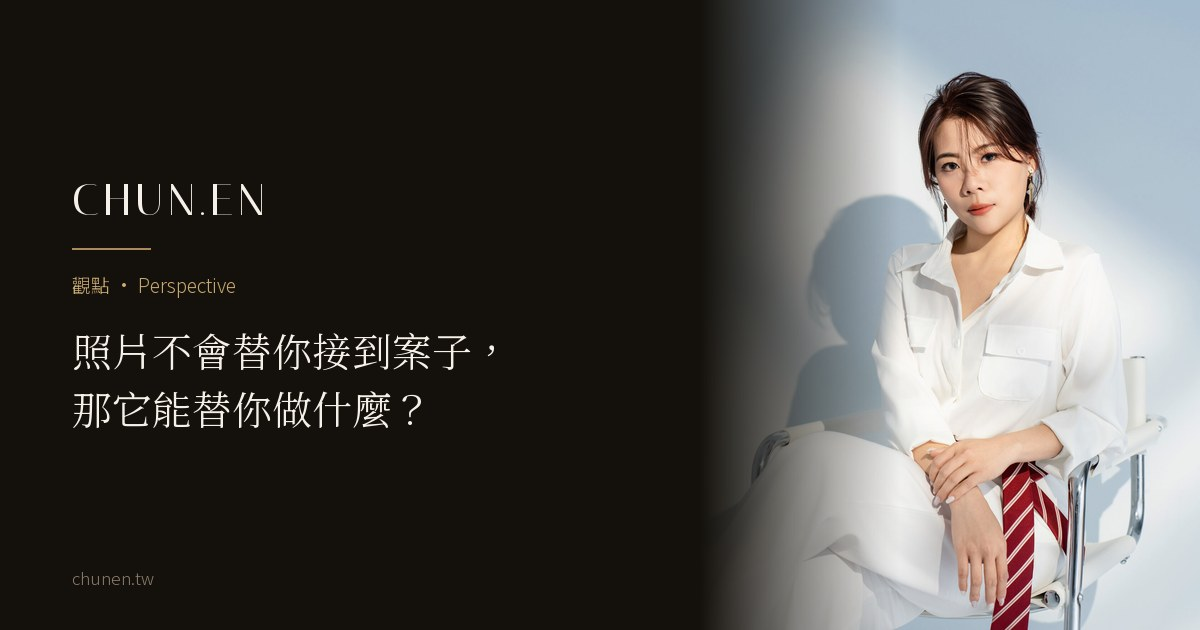
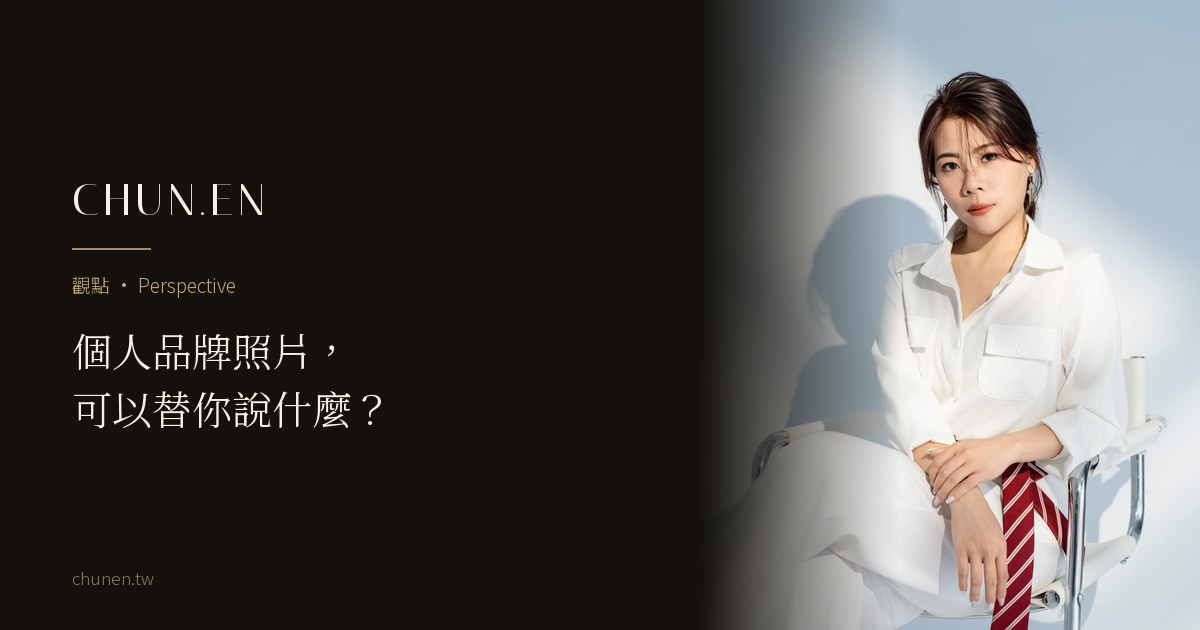
journal: why-your-photo 重新定題為「個人品牌照片，可以替你說什麼？」
原本三節裡有兩節（一致性、部署）跟本週要一起上架的 after-the-shoot
與 portrait-deployment-map 重疊，改成談這篇獨有的一件事：照片先傳遞
的是狀態不是職業，以及它能說什麼、不該被期待說什麼。

- H1 換成正面提問，高聲量鎖定詞「個人品牌」回到標題最前面
- 正文改五節，重點條、lead、金句、FAQ 四題全部重寫
- FAQ schema 改由頁面 FAQ 直接生成，不會再有兩邊不同步的風險
- 被刪掉的兩個議題導到 after-the-shoot／deployment-map／when-to-update
- 第二節帶到 À Voir／B.room／C.photos 的分工，這篇原本零服務接點
- 5 篇兄弟文錨文字＋og 卡同步

Changed region(s): [[0.0617, 0.5127, 0.4008, 0.6937]]

diff --git a/journal/why-your-photo-isnt-working.html b/journal/why-your-photo-isnt-working.html
@@ -4,15 +4,15 @@
   <meta charset="UTF-8" />
   <meta name="viewport" content="width=device-width, initial-scale=1.0, viewport-fit=cover" />
   <meta name="robots" content="noindex" /><!-- 草稿：Kay 審核後移除此行＋掛列表頁＋入 sitemap -->
-  <title>照片不會替你接到案子，那它能替你做什麼？個人品牌影像的三個盲點｜CHUN.EN 觀點</title>
-  <meta name="description" content="照片不會直接替你接到案子，能力、案例與實際互動才是。那照片能做的是什麼？談個人品牌影像最常失效的三個地方：看不出你是誰、與其他接觸點不一致、拍完沒有部署。" />
+  <title>個人品牌照片，可以替你說什麼？服裝、妝髮與畫面先說的那一層｜CHUN.EN 觀點</title>
+  <meta name="description" content="一張個人品牌照片不必替你證明能力，也不一定要讓人一眼看出職業。它先傳遞的是狀態：成熟、沉穩、親近或俐落。服裝、妝髮、姿態與畫面一起形成這層訊息，能力與案例則由文字和內容接手。" />
   <meta name="theme-color" content="#14100B" />
   <link rel="icon" href="/favicon.ico" sizes="48x48" />
   <link rel="icon" href="/favicon-32.png" type="image/png" sizes="32x32" />
   <link rel="apple-touch-icon" href="/apple-touch-icon.png" />
   <link rel="canonical" href="https://chunen.tw/journal/why-your-photo-isnt-working.html" />
-  <meta property="og:title" content="照片不會替你接到案子，那它能替你做什麼？個人品牌影像的三個盲點" />
-  <meta property="og:description" content="照片能做的，是在你不在場的時候，讓每個接觸點看到的是同一個人、同一個方向。" />
+  <meta property="og:title" content="個人品牌照片，可以替你說什麼？" />
+  <meta property="og:description" content="照片不需要替你說完你是誰，但它應該先替你說對你想被感受到的樣子。" />
   <meta property="og:image" content="https://chunen.tw/assets/og/why-your-photo-isnt-working-og.jpg" />
   <meta property="og:image:width" content="1200" />
   <meta property="og:image:height" content="630" />
@@ -20,8 +20,8 @@
   <meta property="og:type" content="article" />
   <meta property="og:locale" content="zh_TW" />
   <meta name="twitter:card" content="summary_large_image" />
-  <meta name="twitter:title" content="照片不會替你接到案子，那它能替你做什麼？個人品牌影像的三個盲點" />
-  <meta name="twitter:description" content="照片能做的，是在你不在場的時候，讓每個接觸點看到的是同一個人、同一個方向。" />
+  <meta name="twitter:title" content="個人品牌照片，可以替你說什麼？" />
+  <meta name="twitter:description" content="照片不需要替你說完你是誰，但它應該先替你說對你想被感受到的樣子。" />
   <meta name="twitter:image" content="https://chunen.tw/assets/og/why-your-photo-isnt-working-og.jpg" />
   <link rel="preconnect" href="https://fonts.googleapis.com" />
   <link rel="preconnect" href="https://fonts.gstatic.com" crossorigin />
@@ -70,51 +70,64 @@
     <header style="padding: clamp(9rem, 16vh, 11rem) 0 clamp(2rem, 4vh, 3rem);">
       <div class="wrap article-wrap">
         <p class="hero-eyebrow rv">觀點 · Perspective</p>
-        <h1 class="rv rv-d1" style="font-weight: 300; font-size: clamp(1.9rem, 4.4vw, 3.2rem); line-height: 1.4; margin-top: 1rem;"><span style="white-space:nowrap;">照片不會替你接到案子，</span><br><span style="white-space:nowrap;">那它能替你做<em style="font-style:normal;color:var(--gold-light);">什麼</em>？</span></h1>
-        <p class="article-meta rv rv-d2">CHUN.EN 觀點 · 2026 · 閱讀約 4 分鐘</p>
+        <h1 class="rv rv-d1" style="font-weight: 300; font-size: clamp(1.9rem, 4.4vw, 3.2rem); line-height: 1.4; margin-top: 1rem;"><span style="white-space:nowrap;">個人品牌照片，</span><br><span style="white-space:nowrap;">可以替你<em style="font-style:normal;color:var(--gold-light);">說什麼</em>？</span></h1>
+        <p class="article-meta rv rv-d2">CHUN.EN 觀點 · 2026 · 閱讀約 6 分鐘</p>
       </div>
     </header>
 
     <div class="wrap article-wrap">
       <div class="jcard-media rv" style="aspect-ratio: 16/9; overflow: hidden; margin-bottom: clamp(2.5rem, 6vh, 4rem);">
-        <img src="../assets/gallery/works/20-1400.jpg" alt="形象照與個人品牌變現" style="width:100%;height:100%;object-fit:cover;object-position:center 20%;" />
+        <img src="../assets/gallery/works/20-1400.jpg" alt="深色背景的男性商務形象照，服裝與姿態一起傳遞沉穩的狀態" style="width:100%;height:100%;object-fit:cover;object-position:center 20%;" />
       </div>
 
       <div class="keypoints rv">
         <p class="kp-t">In This Article · 本文重點</p>
         <ul>
-          <li>好看但看不出你是誰，是「有效」的第一個敵人</li>
-          <li>照片與內容不一致，比不好看更傷信任</li>
-          <li>拍完沒有部署，能替你說話的就只有一個地方</li>
+          <li>照片先傳遞的通常不是職業，是狀態：成熟、沉穩、親近或俐落</li>
+          <li>服裝、妝髮、表情、姿態與畫面一起決定這層訊息，不是單一元素說了算</li>
+          <li>能力與經驗由文字、案例與實際互動支撐，照片不必也不能代勞</li>
         </ul>
       </div>
 
       <div class="article-body rv">
-        <p class="article-lead">「拍了形象照，案子會不會變多？」這個問題，把太多責任放在照片上了。</p>
-        <p>接不接得到案子，看的是能力、案例、報價與實際互動，照片不會替你把這些說完。它能做的比較前面，也比較有限：在別人真正認識你之前，先讓他看到一個清楚的方向。以下是照片最常失效的三個地方。</p>
+        <p class="article-lead">一張個人品牌照片，不需要替你把所有事情說完。</p>
+        <p>它不必單獨證明你的能力，也不一定要讓人一眼看出你的職業。照片先做的事情比較前面：在別人開始讀你的文字之前，它已經傳出了一層訊息。這篇談的就是那一層：照片可以替你說什麼，又不該被期待去說什麼。</p>
 
-        <h2>好看，但<em>看不出你是誰</em></h2>
-        <p>一張照片可以很精緻，卻很空白：看得出「這個人狀態很好」，卻看不出他現在是什麼角色、想被怎麼看待。職業與服務內容本來就要靠職稱與文字補完，但照片至少要把角色的方向給出來；方向缺席的照片，好看得很安全，也安全得被略過。</p>
-        <p><strong>沒有方向的照片不容易被記住</strong>，而被想起來，往往就發生在別人有需要的那一刻。</p>
+        <h2>先被接收到的，通常不是職業，是<em>狀態</em></h2>
+        <p>「這張照片要讓人一看就知道我是做什麼的。」這是拍攝前很常出現的期待，但它對多數專業工作者其實不成立。同樣一身深色西裝、同樣的白牆背景，可能是律師、顧問、企業主，也可能是任何需要公開露面的人。職業本來就不是靠一張畫面辨認的。</p>
+        <p>畫面先傳出去的是另一種東西：這個人看起來成熟還是年輕、沉穩還是活潑、親近還是有距離、俐落還是柔和。這些不等於專業能力，卻是別人第一眼接收到的全部。</p>
+        <p><strong>照片不一定先說明你的職業，但它一定會先傳出你給人的感受。</strong>差別只在於，那個感受是你安排過的，還是碰巧的。</p>
 
-        <h2>照片與內容<em>不一致</em></h2>
-        <p>頭貼精緻、發文隨性；LinkedIn 專業、官網過時；照片是十年前的自己、見面是現在的自己。不一致比不好看更傷，它讓人開始懷疑：哪一面才是真的？</p>
-        <p>一致不會直接換來信任，但不一致會先讓人猶豫。與其一張完美的照片配上矛盾的其他接觸點，不如每個接觸點都是八十分的同一個你。</p>
-        <blockquote>一張好照片能被記住；每個接觸點都對得上的你，才不需要一再被確認。</blockquote>
+        <h2>服裝、妝髮與畫面，是照片<em>說話的方式</em></h2>
+        <p>這層感受不是由臉決定的，是一整套元素疊出來的：服裝的輪廓、材質與正式程度，妝髮的濃淡與質地，表情與姿態的收放，還有背景、光線與構圖。</p>
+        <p>它們之間不需要一模一樣，但需要往同一個方向。想呈現成熟俐落，畫面就不適合過度鬆散；想留住親近感，表情與姿態就不必太防備；想傳達決策份量，服裝的正式程度與整體氛圍得跟得上。<strong>方向不一致的時候，照片會同時說兩件事，看的人只會覺得說不上來的怪。</strong></p>
+        <p>這也是 CHUN.EN 把服裝、妝髮與拍攝放在同一條線上處理的原因：<a href="../a-voir.html">À Voir</a> 先確認角色與服裝方向，<a href="../b-room.html">B.room</a> 讓妝髮跟上同一個正式程度，<a href="../c-photos.html">C.photos</a> 用構圖與光線把它拍出來。分開找，各自都可以做得很好，卻不一定在講同一句話。</p>
+        <blockquote>照片替你說出什麼，不是由單一元素決定，是整張畫面一起形成的。</blockquote>
 
-        <h2>拍完，就<em>結束了</em></h2>
-        <p>照片只放在一個地方，能替你說話的就只有那一個地方。被搜尋、被轉介、被拿來與同業比較的時候，你都不在場，能出面的只有部署好的影像與內容。</p>
-        <p><strong>照片不會替你接到案子。</strong>它能做的，是在你不在場的時候，讓每個接觸點看到的是同一個人、同一個方向。</p>
+        <h2>可以加分，但不能<em>代替實力</em></h2>
+        <p>一個人的能力、經驗、作品與服務品質，不會因為換了一套衣服、做了妝髮、拍了一組照片就突然出現。所以照片不該被寫成接案的關鍵，也不該被期待成「拍得好就等於很專業」。</p>
+        <p>比較誠實的說法是：當一個人本來就有內容，合適的照片能讓這些被看見得更完整一點。它讓第一層印象更清楚，也可能讓人在第一次接觸時比較容易感受到你的專業感。但真正撐住信任的，仍然是後面看到的內容、案例、經歷與實際互動。</p>
+        <p><strong>照片能加分，不能替你完成本來要由實力支撐的事。</strong></p>
 
-        <h2>回到開頭的<em>那一題</em></h2>
-        <p>把你現在的頭貼、官網照片和最近十篇發文排在一起，用客戶的眼睛看一遍。</p>
-        <p>它們說的，是同一個人、同一句話嗎？</p>
+        <h2>照片、文字與案例，<em>分工不一樣</em></h2>
+        <p>一張照片不必把所有資訊塞進同一個畫面，因為它本來就不是一個人在工作。</p>
+        <p>照片給第一層視覺印象；姓名與職稱說明你現在是誰、做什麼；頁面文字補上服務內容與工作方向；案例與經歷才真正支撐專業能力與可信度。與其要求照片獨自完成全部，更值得看的是這幾樣放在一起之後，對不對得上。</p>
+        <p>拍完之後這些要放到哪些位置、各自需要什麼構圖，〈<a href="after-the-shoot.html">拍完形象照之後，為什麼很多照片最後沒有被用上？</a>〉與〈<a href="portrait-deployment-map.html">一組照片的部署地圖</a>〉談得更完整。</p>
+
+        <h2>要問的不是像不像某個職業，是像不像<em>現在的你</em></h2>
+        <p>多數人看自己的照片，第一個問題是「這張像不像我」。更值得拆開來問的是：它像不像現在的我？它傳出來的狀態，是我現在想被感受到的嗎？放在官網、LinkedIn 或簡報裡，和我目前的角色對得上嗎？</p>
+        <p>照片不一定要讓人猜出你的職業，但它至少不該替你說錯話。如果你已經和拍攝當時不太一樣，或想呈現的方向變了，問題常常不是照片拍得不夠好，<strong>而是它正在替你說一個比較舊的版本</strong>。什麼時候該更新、要不要整組重來，〈<a href="when-to-update-your-portrait.html">形象照多久該更新一次？不是每次都要重拍</a>〉分成三級談過。</p>
+
+        <h2>回頭看一次<em>你現在的照片</em></h2>
+        <p>把你現在最常被看到的那張打開來，先不要問別人看不看得出你是做什麼的。</p>
+        <p>換一個問法：<strong>這張照片，現在可以替我說對什麼？</strong></p>
 
         <h2>常見<em>問題</em></h2>
         <div class="faq">
-          <details><summary>照片拍得不錯，為什麼個人品牌還是接不到案子？<span class="mark">+</span></summary><div class="a">多數時候不是照片不夠好看，而是它沒有在替你工作。三個常見原因：照片好看但看不出你是誰，定位訊號缺席；照片與其他接觸點不一致，讓人懷疑哪一面才是真的；拍完沒有部署，只有一個接觸點在替你說話。</div></details>
-          <details><summary>好看的照片為什麼沒有效？<span class="mark">+</span></summary><div class="a">一張照片可以很精緻卻很空白，看得出這個人狀態很好，卻看不出他現在是什麼角色、想被怎麼看待。職業與服務內容要靠職稱與文字補完，但照片至少要把角色的方向給出來；方向缺席的照片好看得很安全，也安全得被略過。</div></details>
-          <details><summary>一致性為什麼比單張照片好看更重要？<span class="mark">+</span></summary><div class="a">因為一致不會直接換來信任，但不一致會先讓人猶豫。頭貼精緻、發文隨性，LinkedIn 專業、官網過時，照片是十年前的自己、見面是現在的自己，這種不一致比不好看更傷。與其一張完美的照片配上矛盾的其他接觸點，不如每個接觸點都是八十分的同一個你。</div></details>
+          <details><summary>個人品牌照片一定要讓人一眼看出職業嗎？<span class="mark">+</span></summary><div class="a">不一定。一張人物照很難單靠畫面交代完職業與服務內容，同樣一身深色西裝可以是律師、顧問或企業主。照片比較常先傳出的是狀態與感受，例如成熟、沉穩、親近、俐落或更有決策感；具體的職稱、工作方向與專業內容，仍然要由文字、案例與其他資訊補上。</div></details>
+          <details><summary>服裝和妝髮在個人品牌照片裡的作用是什麼？<span class="mark">+</span></summary><div class="a">服裝的輪廓與正式程度、妝髮的濃淡與質地、表情與姿態的收放，加上背景與構圖，會一起形成照片最後傳出的語氣。它們的作用不是證明能力，是讓照片更清楚地傳遞你希望被感受到的狀態。方向不一致的時候，照片會同時說兩件事。</div></details>
+          <details><summary>照片可以幫助建立信任嗎？<span class="mark">+</span></summary><div class="a">合適的人物影像可以讓第一次接觸時的資訊更完整，也可能有助於專業感的形成。但真正撐住信任的，仍然是後續看到的內容、案例、經歷與實際互動。照片能做的是把第一層印象說清楚，不是代替這些。</div></details>
+          <details><summary>什麼情況代表我的照片可能需要調整？<span class="mark">+</span></summary><div class="a">如果照片傳出的狀態已經不符合現在的你，或和目前的角色、公開資料與整體方向對不上，就值得重新檢查。問題不一定是照片拍得不好，而可能是它正在替你說一個比較舊的版本。要不要整組重拍，可以先看落差有多大。</div></details>
         </div>
 
       </div>
@@ -162,13 +175,13 @@
   {
     "@context": "https://schema.org",
     "@type": "Article",
-    "headline": "照片不會替你接到案子，那它能替你做什麼？個人品牌影像的三個盲點",
-    "description": "客戶不是被一張好照片說服的，是被「每個接觸點都一致的你」說服的。",
+    "headline": "個人品牌照片，可以替你說什麼？",
+    "description": "照片不需要替你說完你是誰，但它應該先替你說對你想被感受到的樣子。",
     "image": "https://chunen.tw/assets/gallery/works/20-1400.jpg",
     "author": {"@type": "Person", "@id": "https://chunen.tw/author/zoey-wu.html#zoey", "name": "吳惇恩", "alternateName": "Zoey Wu", "jobTitle": "Founder & Brand Director", "image": "https://chunen.tw/assets/images/zoey-author-640.jpg", "url": "https://chunen.tw/author/zoey-wu.html"},
     "publisher": {"@type": "Organization", "name": "CHUN.EN 形象美學", "logo": {"@type": "ImageObject", "url": "https://chunen.tw/icon-512.png"}},
     "datePublished": "2026-07-16",
-    "dateModified": "2026-08-12",
+    "dateModified": "2026-08-13",
     "mainEntityOfPage": "https://chunen.tw/journal/why-your-photo-isnt-working.html"
   }
   </script>
@@ -181,9 +194,10 @@
     "@context": "https://schema.org",
     "@type": "FAQPage",
     "mainEntity": [
-      {"@type": "Question", "name": "照片拍得不錯，為什麼個人品牌還是接不到案子？", "acceptedAnswer": {"@type": "Answer", "text": "多數時候不是照片不夠好看，而是它沒有在替你工作。三個常見原因：照片好看但看不出你是誰，定位訊號缺席；照片與其他接觸點不一致，讓人懷疑哪一面才是真的；拍完沒有部署，只有一個接觸點在替你說話。"}},
-      {"@type": "Question", "name": "好看的照片為什麼沒有效？", "acceptedAnswer": {"@type": "Answer", "text": "一張照片可以很精緻卻很空白，看得出這個人狀態很好，卻看不出他現在是什麼角色、想被怎麼看待。職業與服務內容要靠職稱與文字補完，但照片至少要把角色的方向給出來；方向缺席的照片好看得很安全，也安全得被略過。"}},
-      {"@type": "Question", "name": "一致性為什麼比單張照片好看更重要？", "acceptedAnswer": {"@type": "Answer", "text": "因為一致不會直接換來信任，但不一致會先讓人猶豫。頭貼精緻、發文隨性，LinkedIn 專業、官網過時，照片是十年前的自己、見面是現在的自己，這種不一致比不好看更傷。與其一張完美的照片配上矛盾的其他接觸點，不如每個接觸點都是八十分的同一個你。"}}
+      {"@type": "Question", "name": "個人品牌照片一定要讓人一眼看出職業嗎？", "acceptedAnswer": {"@type": "Answer", "text": "不一定。一張人物照很難單靠畫面交代完職業與服務內容，同樣一身深色西裝可以是律師、顧問或企業主。照片比較常先傳出的是狀態與感受，例如成熟、沉穩、親近、俐落或更有決策感；具體的職稱、工作方向與專業內容，仍然要由文字、案例與其他資訊補上。"}},
+      {"@type": "Question", "name": "服裝和妝髮在個人品牌照片裡的作用是什麼？", "acceptedAnswer": {"@type": "Answer", "text": "服裝的輪廓與正式程度、妝髮的濃淡與質地、表情與姿態的收放，加上背景與構圖，會一起形成照片最後傳出的語氣。它們的作用不是證明能力，是讓照片更清楚地傳遞你希望被感受到的狀態。方向不一致的時候，照片會同時說兩件事。"}},
+      {"@type": "Question", "name": "照片可以幫助建立信任嗎？", "acceptedAnswer": {"@type": "Answer", "text": "合適的人物影像可以讓第一次接觸時的資訊更完整，也可能有助於專業感的形成。但真正撐住信任的，仍然是後續看到的內容、案例、經歷與實際互動。照片能做的是把第一層印象說清楚，不是代替這些。"}},
+      {"@type": "Question", "name": "什麼情況代表我的照片可能需要調整？", "acceptedAnswer": {"@type": "Answer", "text": "如果照片傳出的狀態已經不符合現在的你，或和目前的角色、公開資料與整體方向對不上，就值得重新檢查。問題不一定是照片拍得不好，而可能是它正在替你說一個比較舊的版本。要不要整組重拍，可以先看落差有多大。"}}
     ]
   }
   </script>
@@ -208,7 +222,7 @@
       {
         "@type": "ListItem",
         "position": 3,
-        "name": "照片不會替你接到案子，那它能替你做什麼？個人品牌影像的三個盲點",
+        "name": "個人品牌照片，可以替你說什麼？",
         "item": "https://chunen.tw/journal/why-your-photo-isnt-working.html"
       }
     ]

diff --git a/journal/realtor-personal-brand.html b/journal/realtor-personal-brand.html
@@ -112,7 +112,7 @@
           </tbody>
         </table>
         </div>
-        <p>注意最後一列：形象照的終點是「本人兌現照片的承諾」。這也是為什麼我們反對過度修圖，照片比本人好太多，見面那一刻反而變成扣分項。這條原則在〈<a href="why-your-photo-isnt-working.html">照片不會替你接到案子，那它能替你做什麼</a>〉有完整展開。</p>
+        <p>注意最後一列：形象照的終點是「本人兌現照片的承諾」。這也是為什麼我們反對過度修圖，照片比本人好太多，見面那一刻反而變成扣分項。這條原則在〈<a href="why-your-photo-isnt-working.html">個人品牌照片，可以替你說什麼</a>〉有完整展開。</p>
 
         <h2>親切還是專業？先回答「你想接<em>誰的案子</em>」</h2>
         <p>房仲形象最常見的兩難：拍得太正式怕有距離感，拍得太親切又怕撐不起高總價物件。我們的答案一貫：<strong>這不是拍攝問題，是定位問題。</strong></p>
@@ -153,7 +153,7 @@
       <div class="related rv">
         <p class="related-t">相關閱讀 · Related</p>
         <a href="portrait-deployment-map.html">一組照片的部署地圖：官網、LinkedIn、簡報、媒體各要哪一張</a>
-        <a href="why-your-photo-isnt-working.html">照片不會替你接到案子，那它能替你做什麼？</a>
+        <a href="why-your-photo-isnt-working.html">個人品牌照片，可以替你說什麼？</a>
         <a href="financial-advisor-portrait-trust.html">金融顧問的信任門檻：西裝之外的訊號工程</a>
       </div>
 

diff --git a/journal/music-teacher-enrollment-image.html b/journal/music-teacher-enrollment-image.html
@@ -149,7 +149,7 @@
         <p class="related-t">相關閱讀 · Related</p>
         <a href="musician-offstage-image.html">音樂家的舞台外形象：招生、商演與媒體的三種聲音</a>
         <a href="first-impression-research.html">第一印象真的只要 0.1 秒？研究說的是「形成很快」，不是「決定一切」</a>
-        <a href="why-your-photo-isnt-working.html">照片不會替你接到案子，那它能替你做什麼？</a>
+        <a href="why-your-photo-isnt-working.html">個人品牌照片，可以替你說什麼？</a>
       </div>
 
       <p class="rv" style="margin-top: 2.5rem;"><a href="/journal/" style="color: var(--muted-bright); font-size: 0.85rem; letter-spacing: 0.1em;">← 回到專欄</a></p>

diff --git a/journal/posing-guide-for-portraits.html b/journal/posing-guide-for-portraits.html
@@ -146,7 +146,7 @@
         <p class="related-t">相關閱讀 · Related</p>
         <a href="natural-look-by-design.html">「拍自然一點」是最貴的一句話：為什麼自然需要設計</a>
         <a href="portrait-preparation-checklist.html">拍攝前準備清單</a>
-        <a href="why-your-photo-isnt-working.html">照片不會替你接到案子，那它能替你做什麼？</a>
+        <a href="why-your-photo-isnt-working.html">個人品牌照片，可以替你說什麼？</a>
       </div>
 
       <p class="rv" style="margin-top: 2.5rem;"><a href="/journal/" style="color: var(--muted-bright); font-size: 0.85rem; letter-spacing: 0.1em;">← 回到專欄</a></p>

diff --git a/journal/after-the-shoot.html b/journal/after-the-shoot.html
@@ -156,7 +156,7 @@
       <div class="related rv">
         <p class="related-t">相關閱讀 · Related</p>
         <a href="when-to-update-your-portrait.html">形象照多久該更新一次？不是每次都要重拍</a>
-        <a href="why-your-photo-isnt-working.html">照片不會替你接到案子，那它能替你做什麼？</a>
+        <a href="why-your-photo-isnt-working.html">個人品牌照片，可以替你說什麼？</a>
               <a href="portrait-vs-personal-brand.html">單張照片與影像系統的差別</a>
       </div>
 

diff --git a/journal/when-to-update-your-portrait.html b/journal/when-to-update-your-portrait.html
@@ -145,7 +145,7 @@
       <div class="related rv">
         <p class="related-t">相關閱讀 · Related</p>
         <a href="after-the-shoot.html">拍完形象照之後，為什麼很多照片最後沒有被用上？</a>
-        <a href="why-your-photo-isnt-working.html">照片不會替你接到案子，那它能替你做什麼？</a>
+        <a href="why-your-photo-isnt-working.html">個人品牌照片，可以替你說什麼？</a>
               <a href="portrait-vs-personal-brand.html">單張照片與影像系統的差別</a>
       </div>
 
